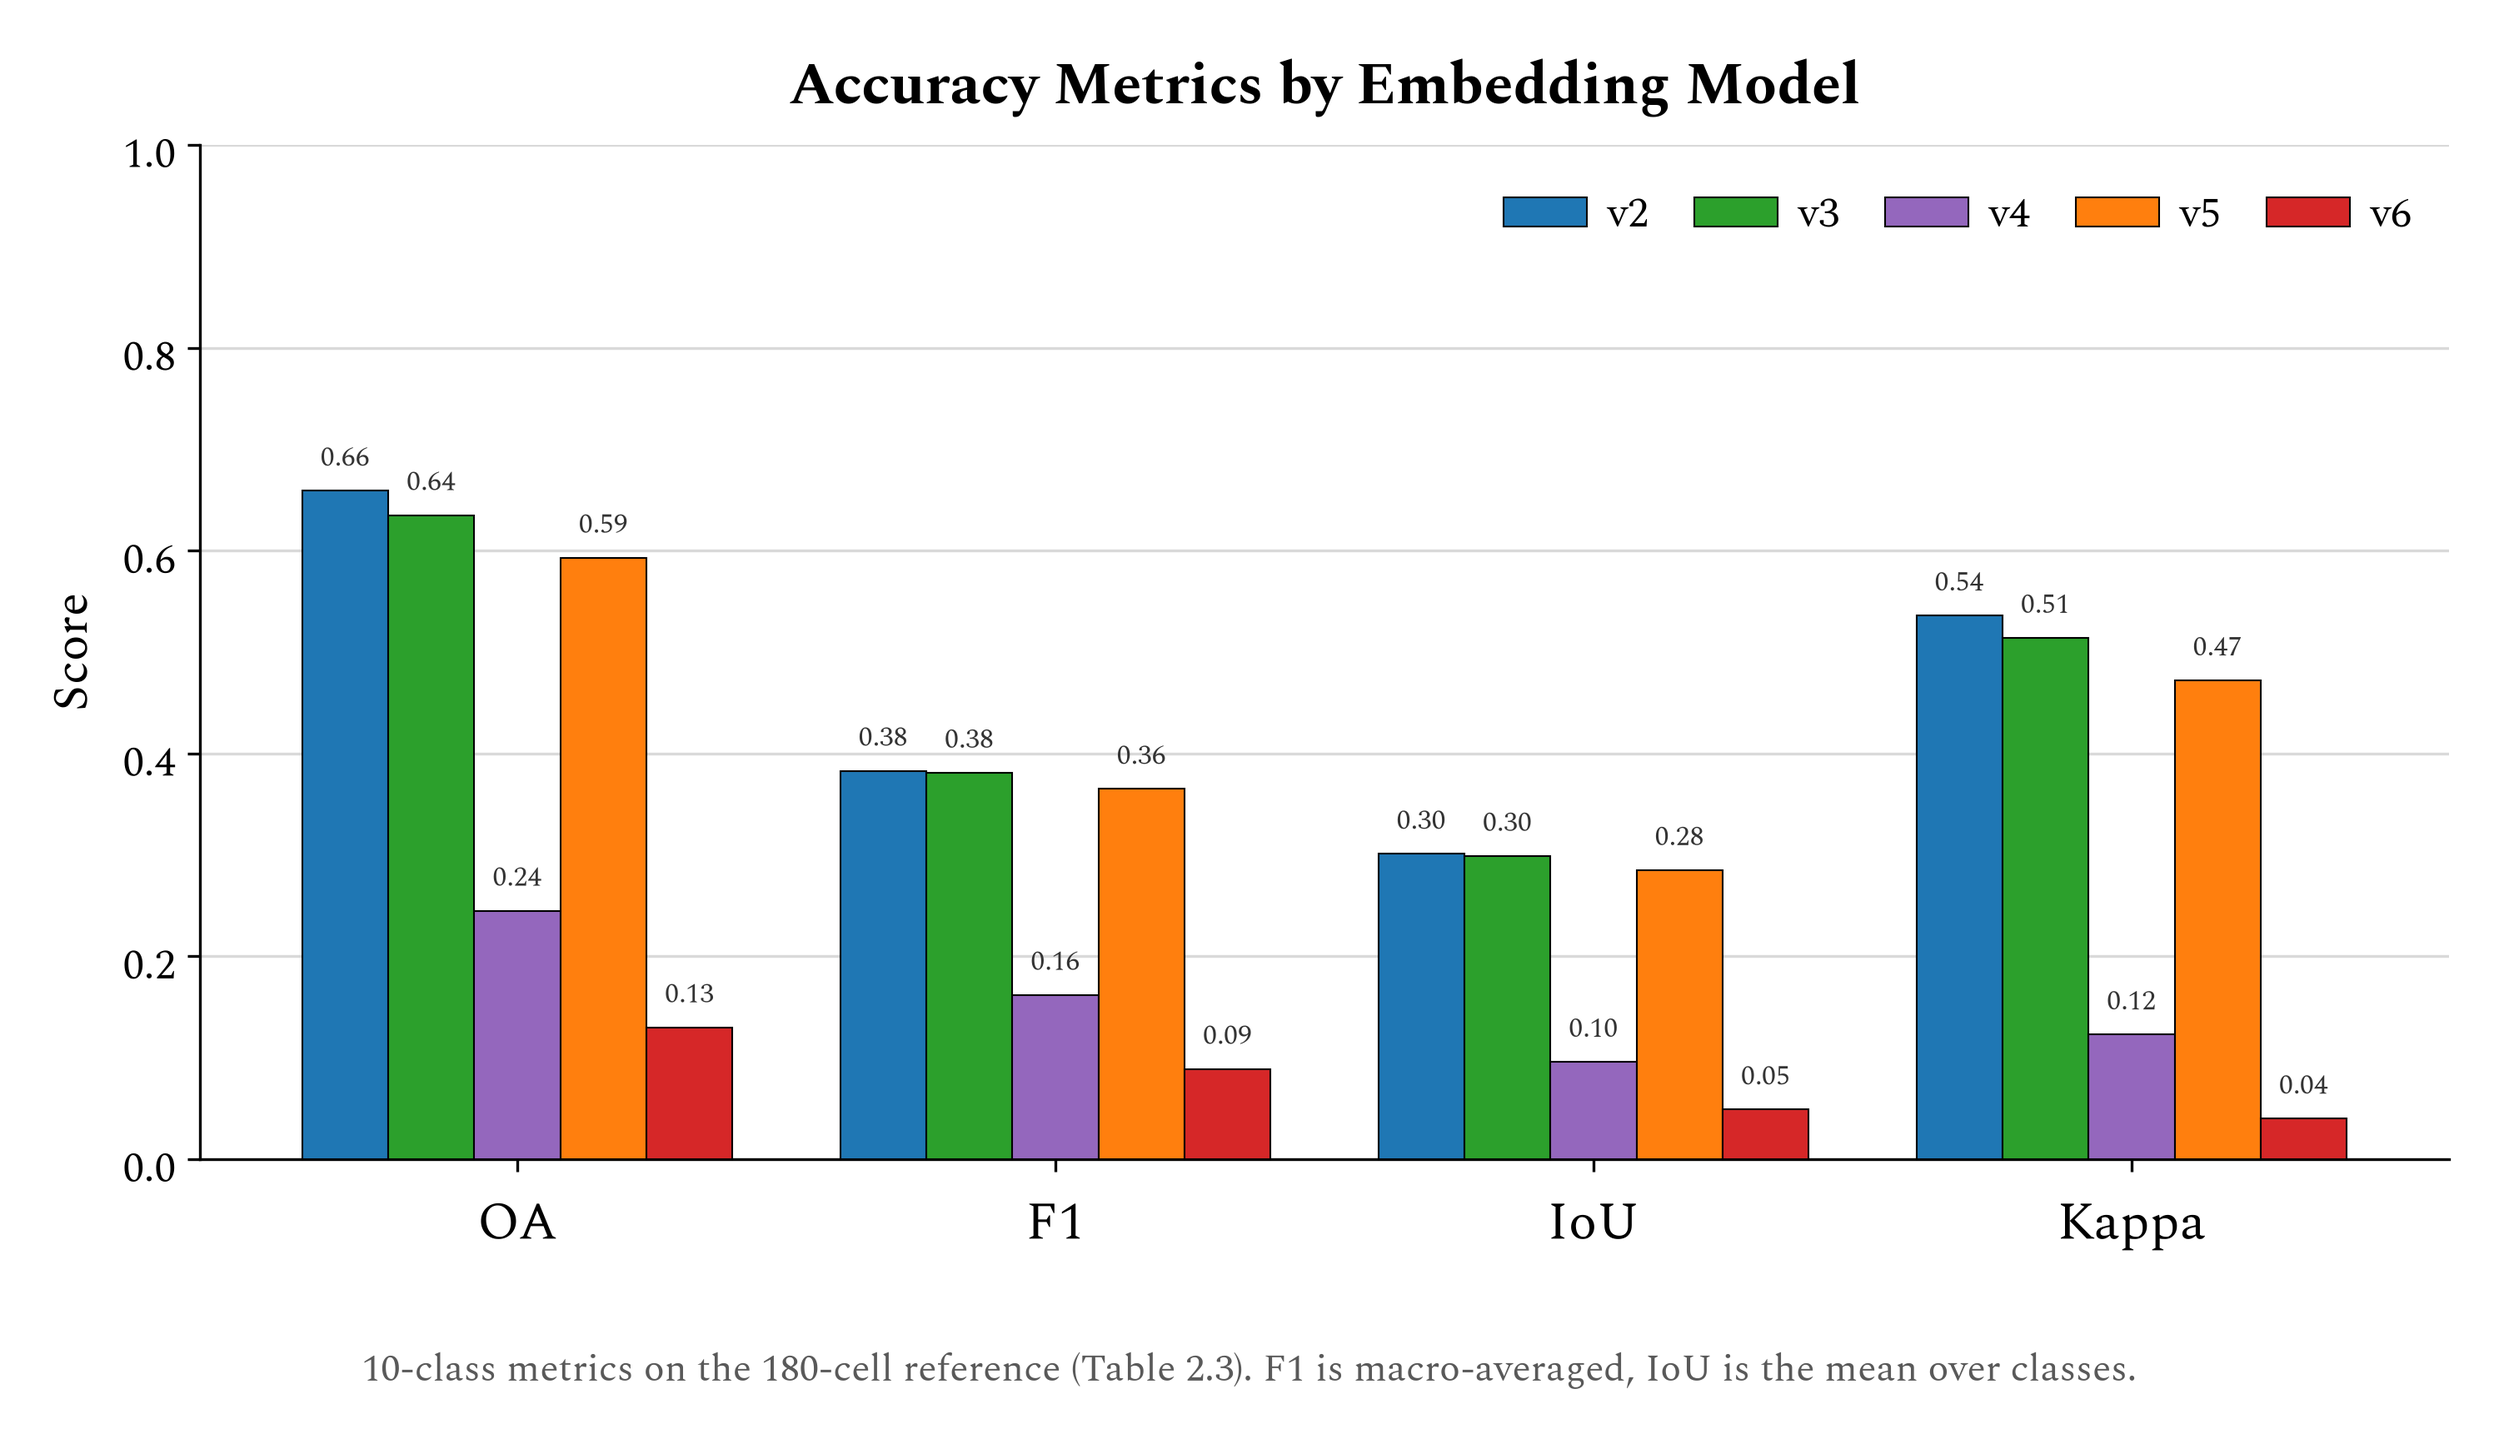
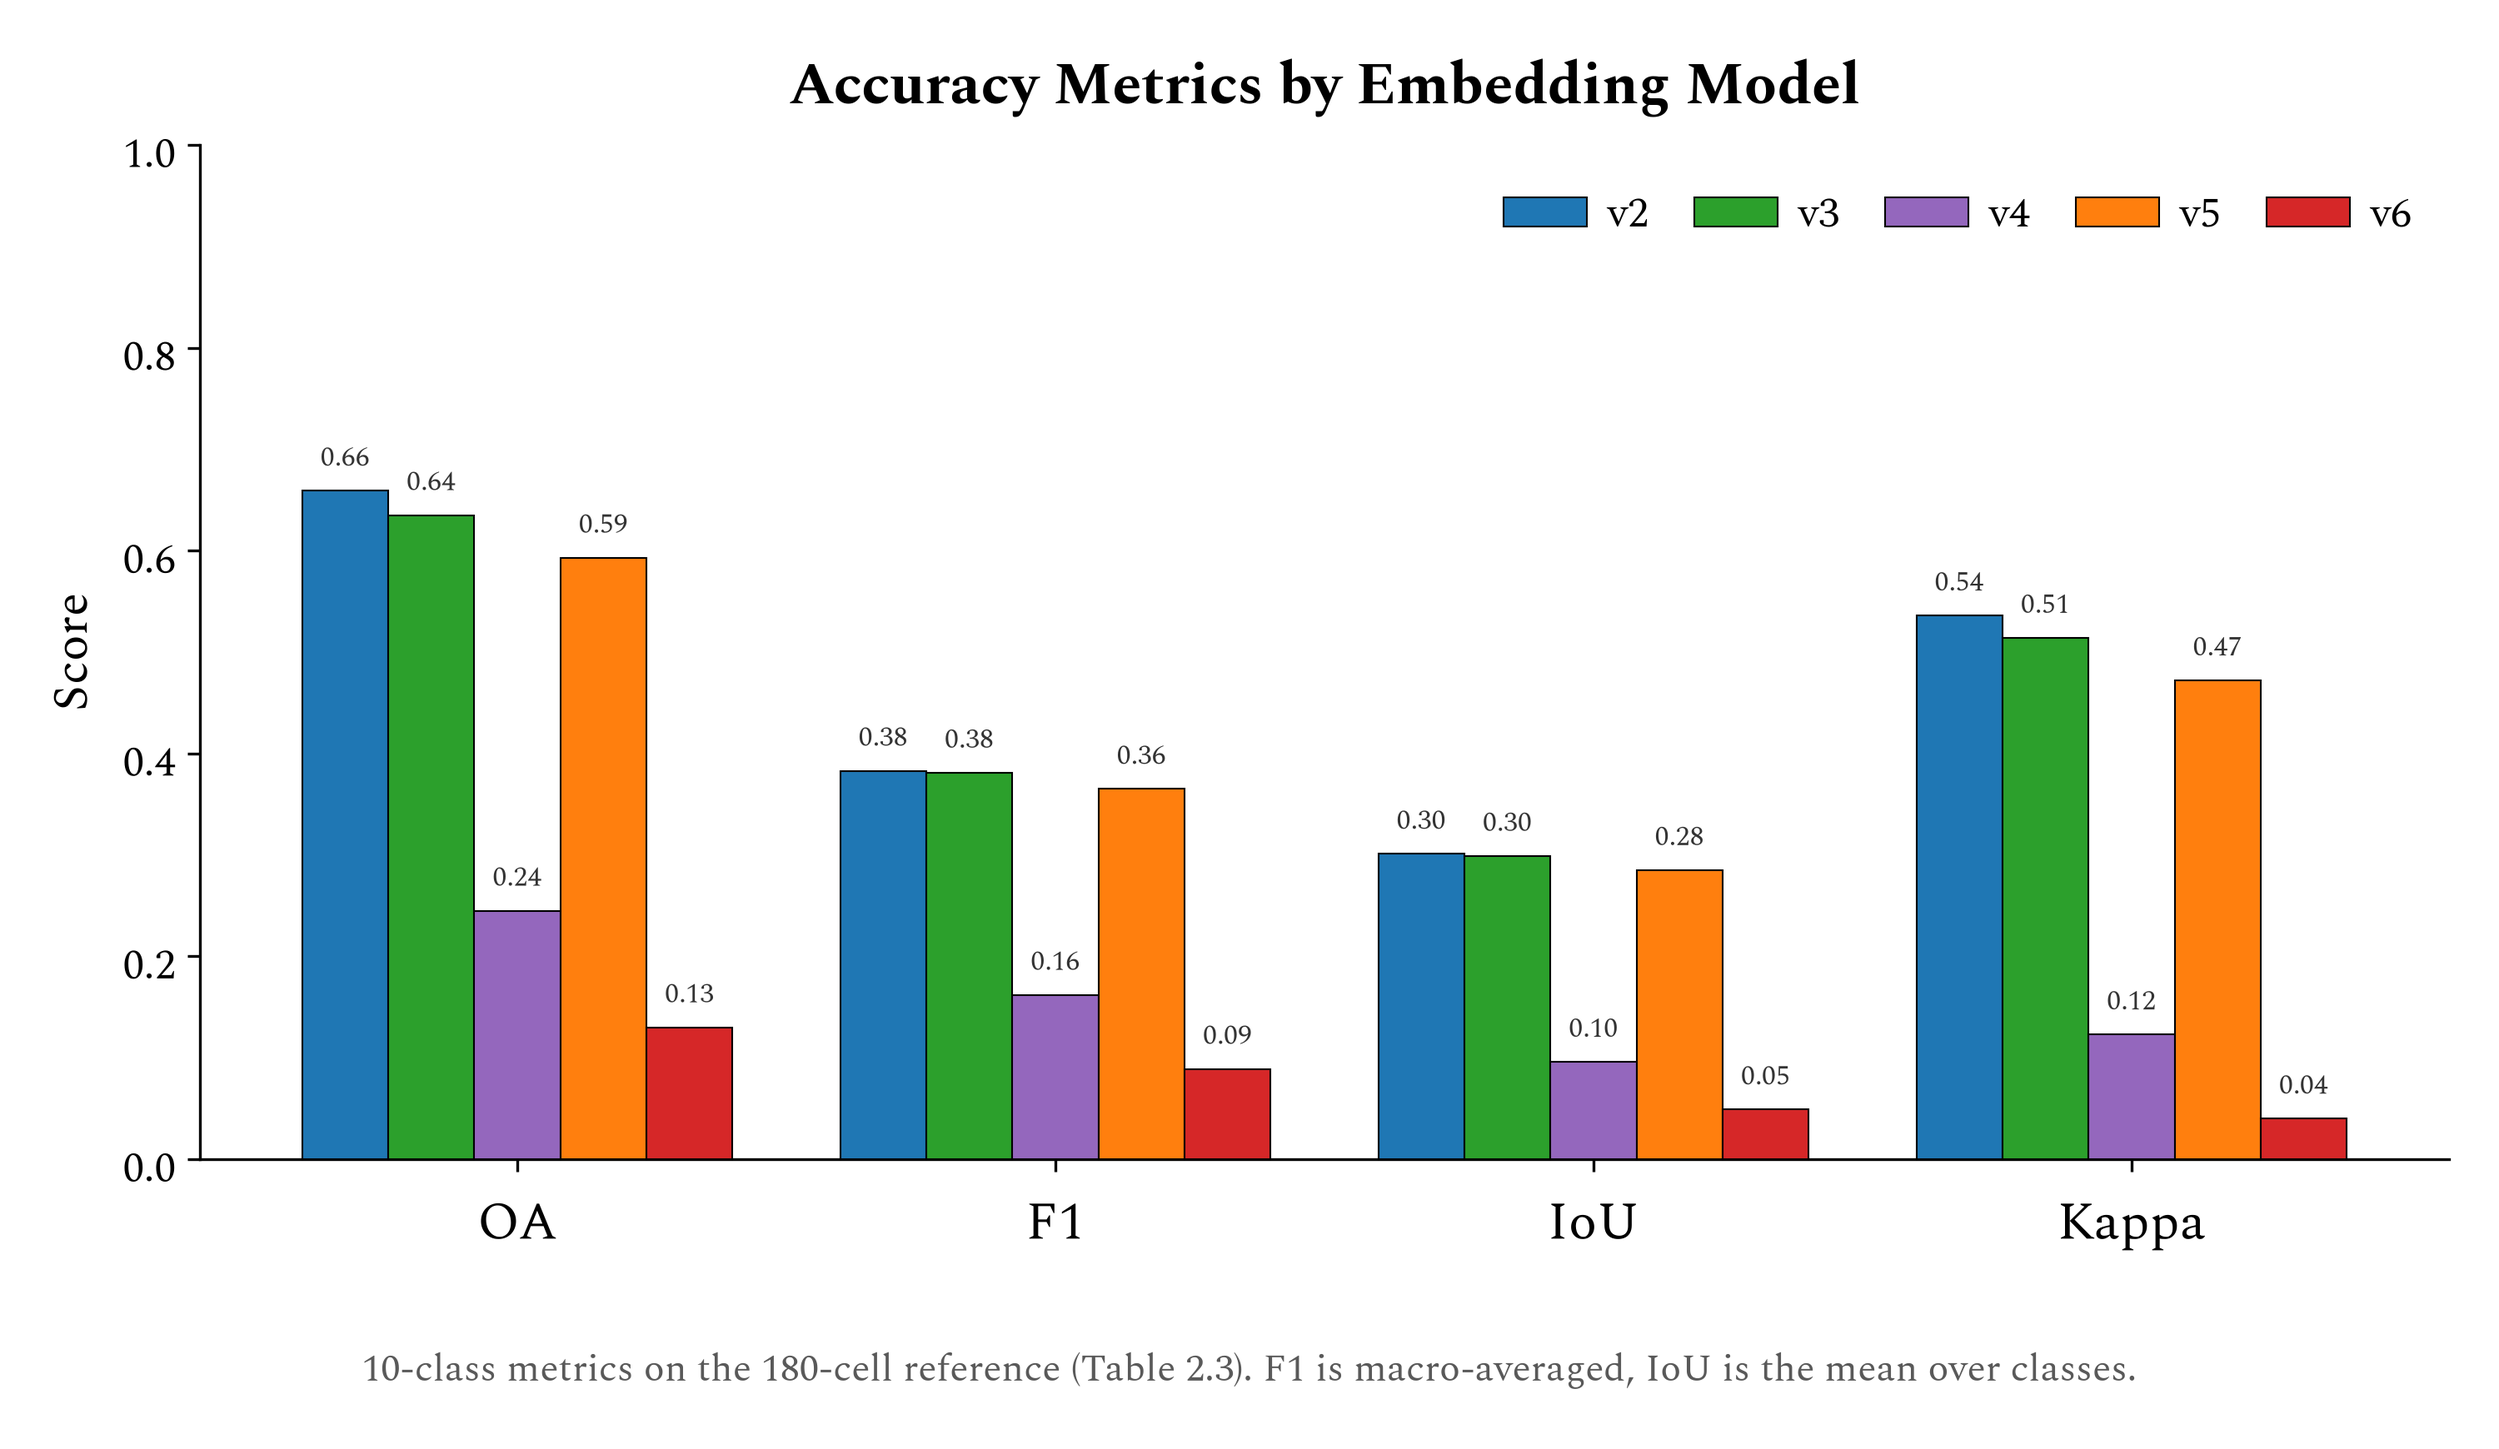
pres_17: drop background gridlines (keep axes); spec_all brown

diff --git a/presentation/scripts/pres_17_model_metrics.py b/presentation/scripts/pres_17_model_metrics.py
@@ -29,9 +29,9 @@ ROOT = os.path.dirname(os.path.dirname(HERE))
 T23 = os.path.join(ROOT, "manuscript_formatting", "tables", "table_2_3.csv")
 OUT = os.path.join(ROOT, "presentation", "figures")
 
-# per-model colors: embeddings from the transfer-OA palette, spec_all a neutral grey (baseline)
+# per-model colors: embeddings from the transfer-OA palette, spec_all brown (the tab10 next color)
 COLOR = {"v2": "#1f77b4", "v3": "#2ca02c", "v4": "#9467bd", "v5": "#ff7f0e", "v6": "#d62728",
-         "spec_all": "#7f7f7f"}
+         "spec_all": "#8c564b"}
 # (x-axis group label, table column)
 STATS = [("OA", "OA"), ("F1", "Macro-F1"), ("IoU", "Mean IoU"), ("Kappa", "Kappa")]
 
@@ -57,8 +57,7 @@ def _draw(df, models, stem, title, caption):
     ax.set_ylim(0, 1.0)
     ax.set_ylabel("Score", fontsize=14)
     ax.tick_params(axis="y", labelsize=12)
-    ax.grid(axis="y", color="0.85", lw=0.8, zorder=0)
-    ax.set_axisbelow(True)
+    ax.grid(False)
     for s in ("top", "right"):
         ax.spines[s].set_visible(False)
     ax.legend(ncol=n, fontsize=12, loc="upper right", frameon=False, columnspacing=1.1,
